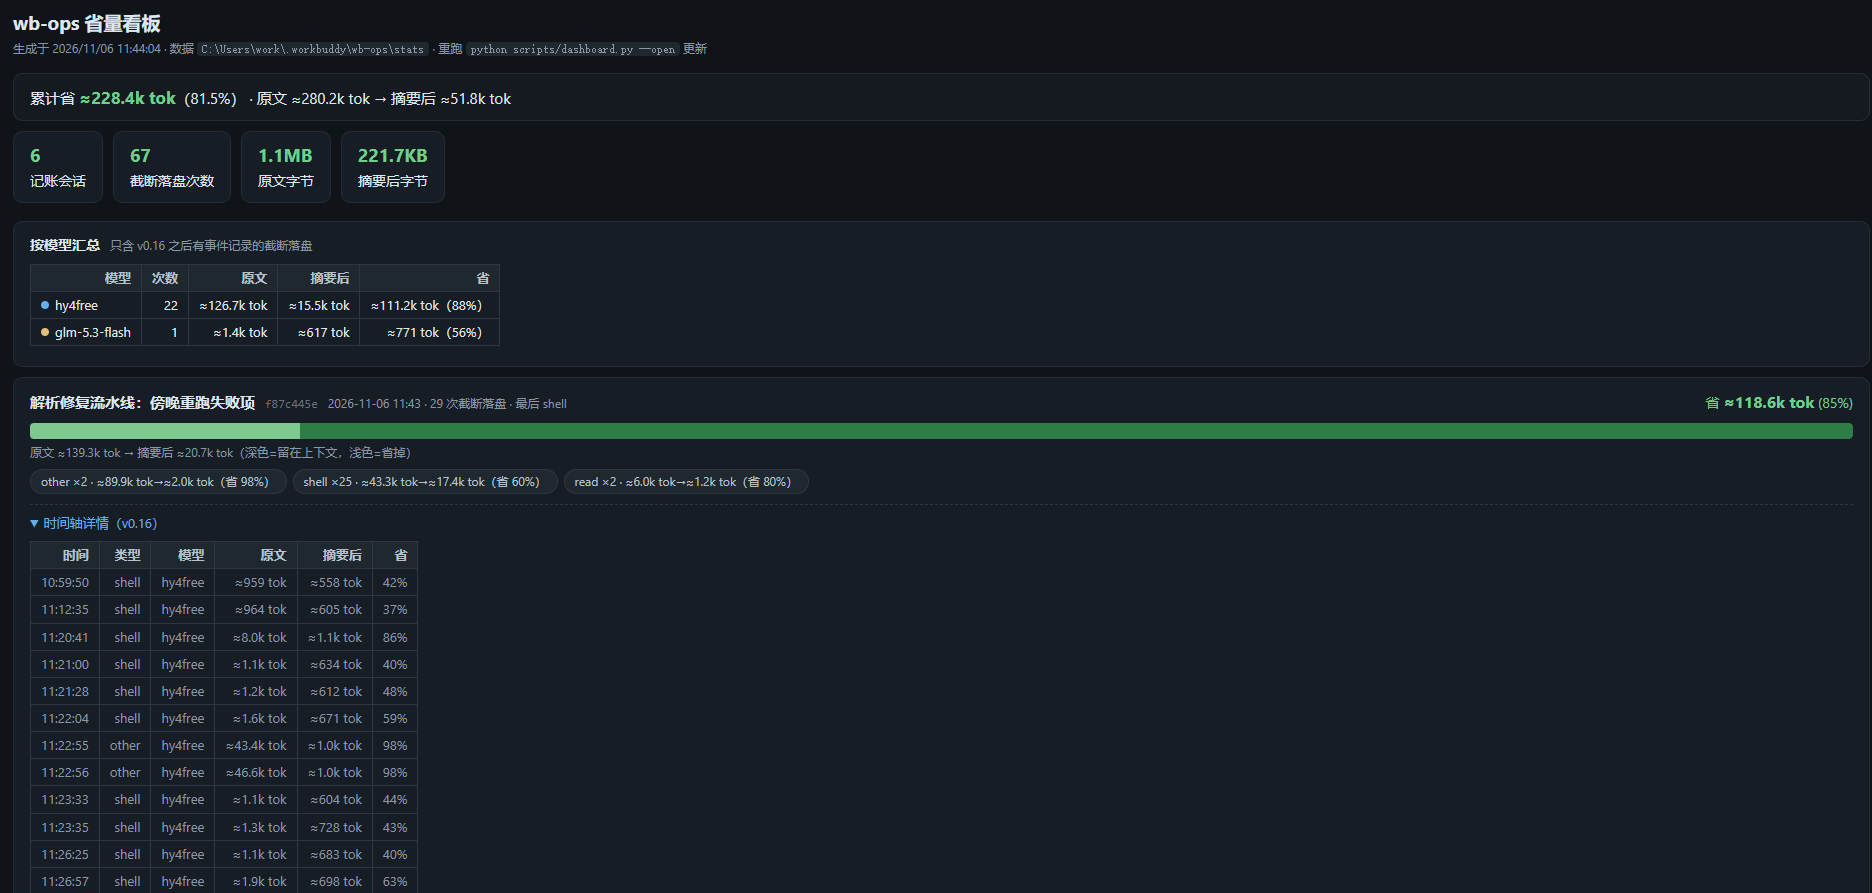
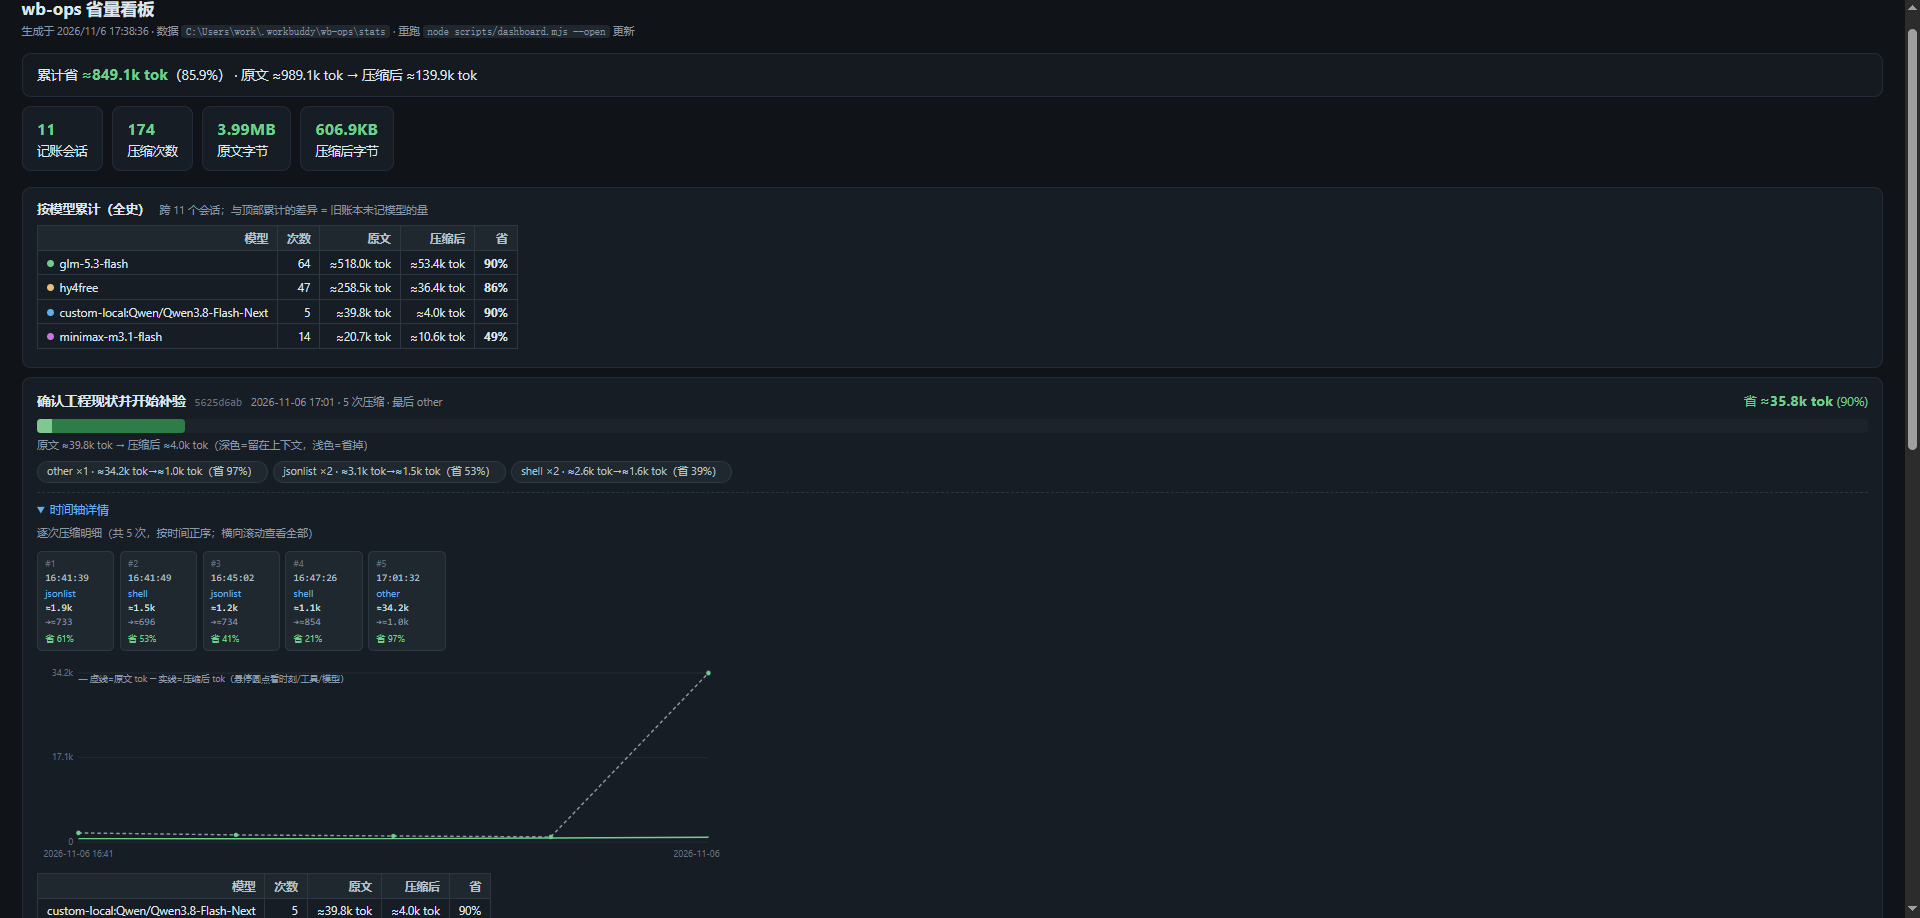
docs: 更新看板截图（含逐次压缩明细与模型累计）
- docs/assets/dashboard.png 换为 v0.18.3 版本截图（1920x918）
  展示：累计省 ≈845.1k tok（85.9%）、11 会话、174 次压缩、
  按模型累计表、逐次压缩明细条
- README / README.en 的 alt 文字同步为截图中的真实数值

Changed region(s): [[0.0, 0.0, 1.0, 1.0], [0.0, 0.0, 0.3408, 0.3931], [0.3408, 0.9071, 0.3718, 0.9373]]

diff --git a/README.md b/README.md
@@ -12,8 +12,8 @@
 > 一次长会话下来，工具输出往往占掉上下文的 60% 以上，其中大部分是没人再看的中间过程。wb-ops 把它们压成"头 + 关键行 + 尾"的摘要，完整原文存到本地文件，需要时随时取回。
 
 <div align="center">
-  <img src="docs/assets/dashboard.png" alt="wb-ops 省量看板：累计省 ≈228.4k tok（81.5%）" width="720">
-  <p><sub>省量看板：每个会话省了多少、按哪个模型省的、每次压缩的时间轴，浏览器打开一目了然</sub></p>
+  <img src="docs/assets/dashboard.png" alt="wb-ops 省量看板：累计省 ≈845.1k tok（85.9%）、11 个记账会话、174 次压缩" width="720">
+  <p><sub>省量看板：每个会话省了多少、按哪个模型省的、每次压缩的时间轴与逐次明细，浏览器打开一目了然</sub></p>
 </div>
 
 ## ✨ 特性与优势

diff --git a/README.en.md b/README.en.md
@@ -12,8 +12,8 @@
 > In a long session, tool outputs often consume 60%+ of the context — mostly intermediate noise nobody reads again. wb-ops compresses them into a *head + key lines + tail* summary, saves the complete original to a local file, and hands the model a retrieval path.
 
 <div align="center">
-  <img src="docs/assets/dashboard.png" alt="wb-ops dashboard: ≈228.4k tokens saved (81.5%)" width="720">
-  <p><sub>The savings dashboard: per-session, per-model, per-compression timelines — one glance in the browser</sub></p>
+  <img src="docs/assets/dashboard.png" alt="wb-ops dashboard: ≈845.1k tokens saved (85.9%), 11 tracked sessions, 174 compressions" width="720">
+  <p><sub>The savings dashboard: per-session, per-model, per-compression timelines and event-by-event detail — one glance in the browser</sub></p>
 </div>
 
 ## ✨ Features
